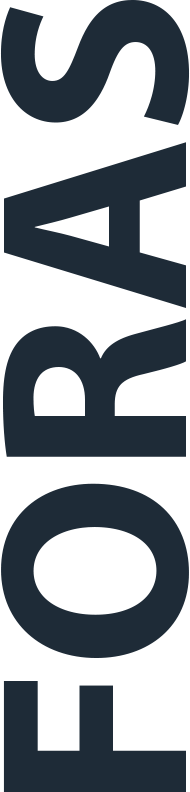
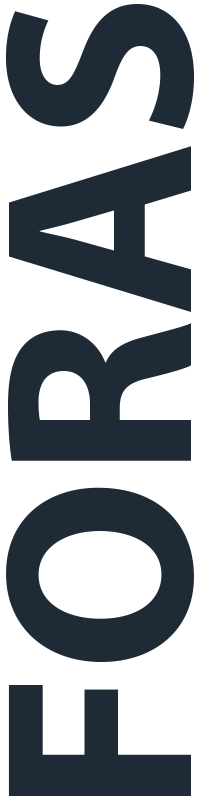
Fixed alignment of "Foras" image
Fixed the alignment of the `ForasVertical.png` image as Breno was
annoying me too much about it.

He says this would make Steve Jobs proud.

diff --git a/Statistics.js b/Statistics.js
@@ -5,7 +5,8 @@ var {
 	Component,
 	Image,
 	Text,
-	Dimensions
+	Dimensions,
+	View
 } = React;
 
 import styles from './styles';
@@ -59,7 +60,8 @@ class Statistics extends Component {
 
 	render() {
 		return (
-			<Image source={require('./res/ForasVertical.png')} style={styles.containerStats}>
+			<View style={styles.containerStats}>
+				<Image source={require('./res/ForasVertical.png')} style={styles.statsBackground}></Image>
 			    <ArrowButton dir={'down'} fallback={height} target={0} link={this.props.link} 
 			    	style={styles.arrowStatsStats} onPan={ (state) => this.props.link._onPan(state, height, -1) } 
 			    	onPanEnd={ (state) => this.props.link._onPanEnd(state, height, 0) } />
@@ -105,7 +107,7 @@ class Statistics extends Component {
 			    <Text style={styles.statsLabel}>
 			        MÉDIA POR PESSOA
 			    </Text>
-			</Image>
+			</View>
 		);
 	}
 }

diff --git a/styles.ios.js b/styles.ios.js
@@ -44,7 +44,13 @@ var styles = StyleSheet.create({
     containerStats: {
         width: width,
         height: height,
-        resizeMode: 'contain'
+    },
+    statsBackground: {
+        height: 400,
+        width: 100,
+        position: 'absolute',
+        right: 20,
+        bottom: 20
     },
     statsBigValue: {
         margin: 0,

diff --git a/styles.android.js b/styles.android.js
@@ -45,6 +45,13 @@ var styles = StyleSheet.create({
         width: width,
         height: height
     },
+    statsBackground: {
+        height: 400,
+        width: 100,
+        position: 'absolute',
+        right: 20,
+        bottom: 20
+    },
     statsBigValue: {
         margin: 0,
         color: 'white',
